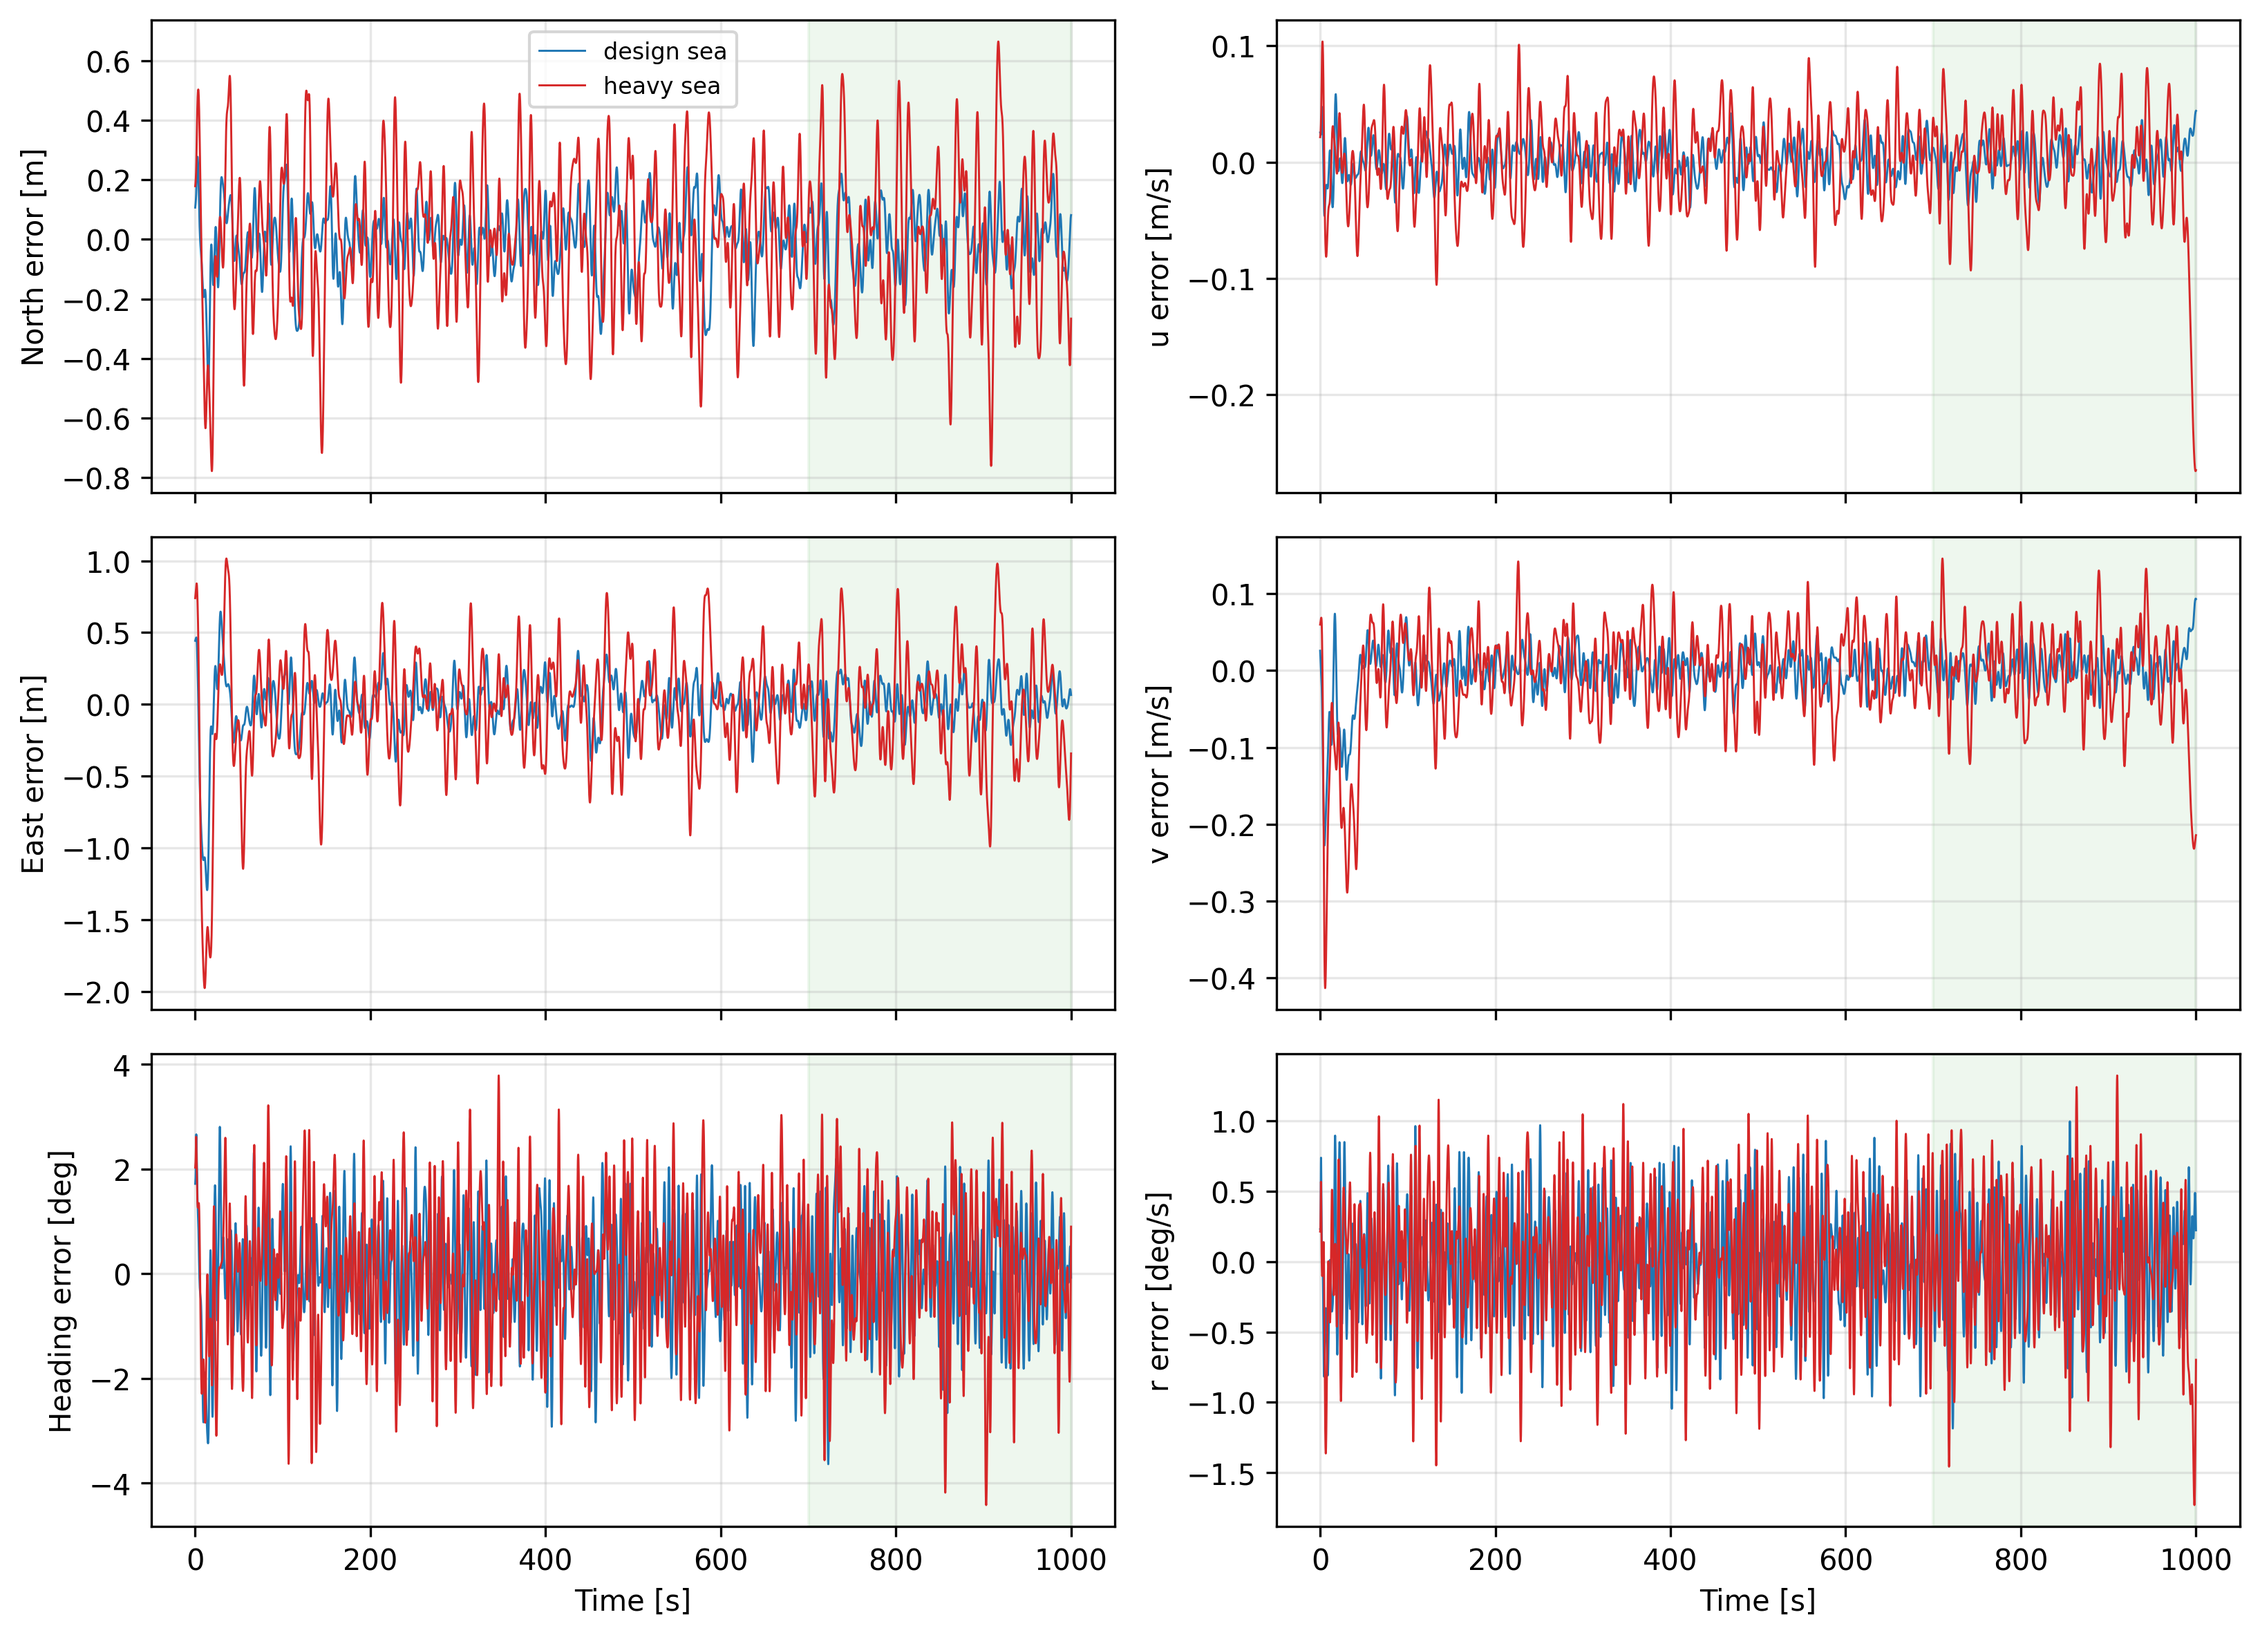
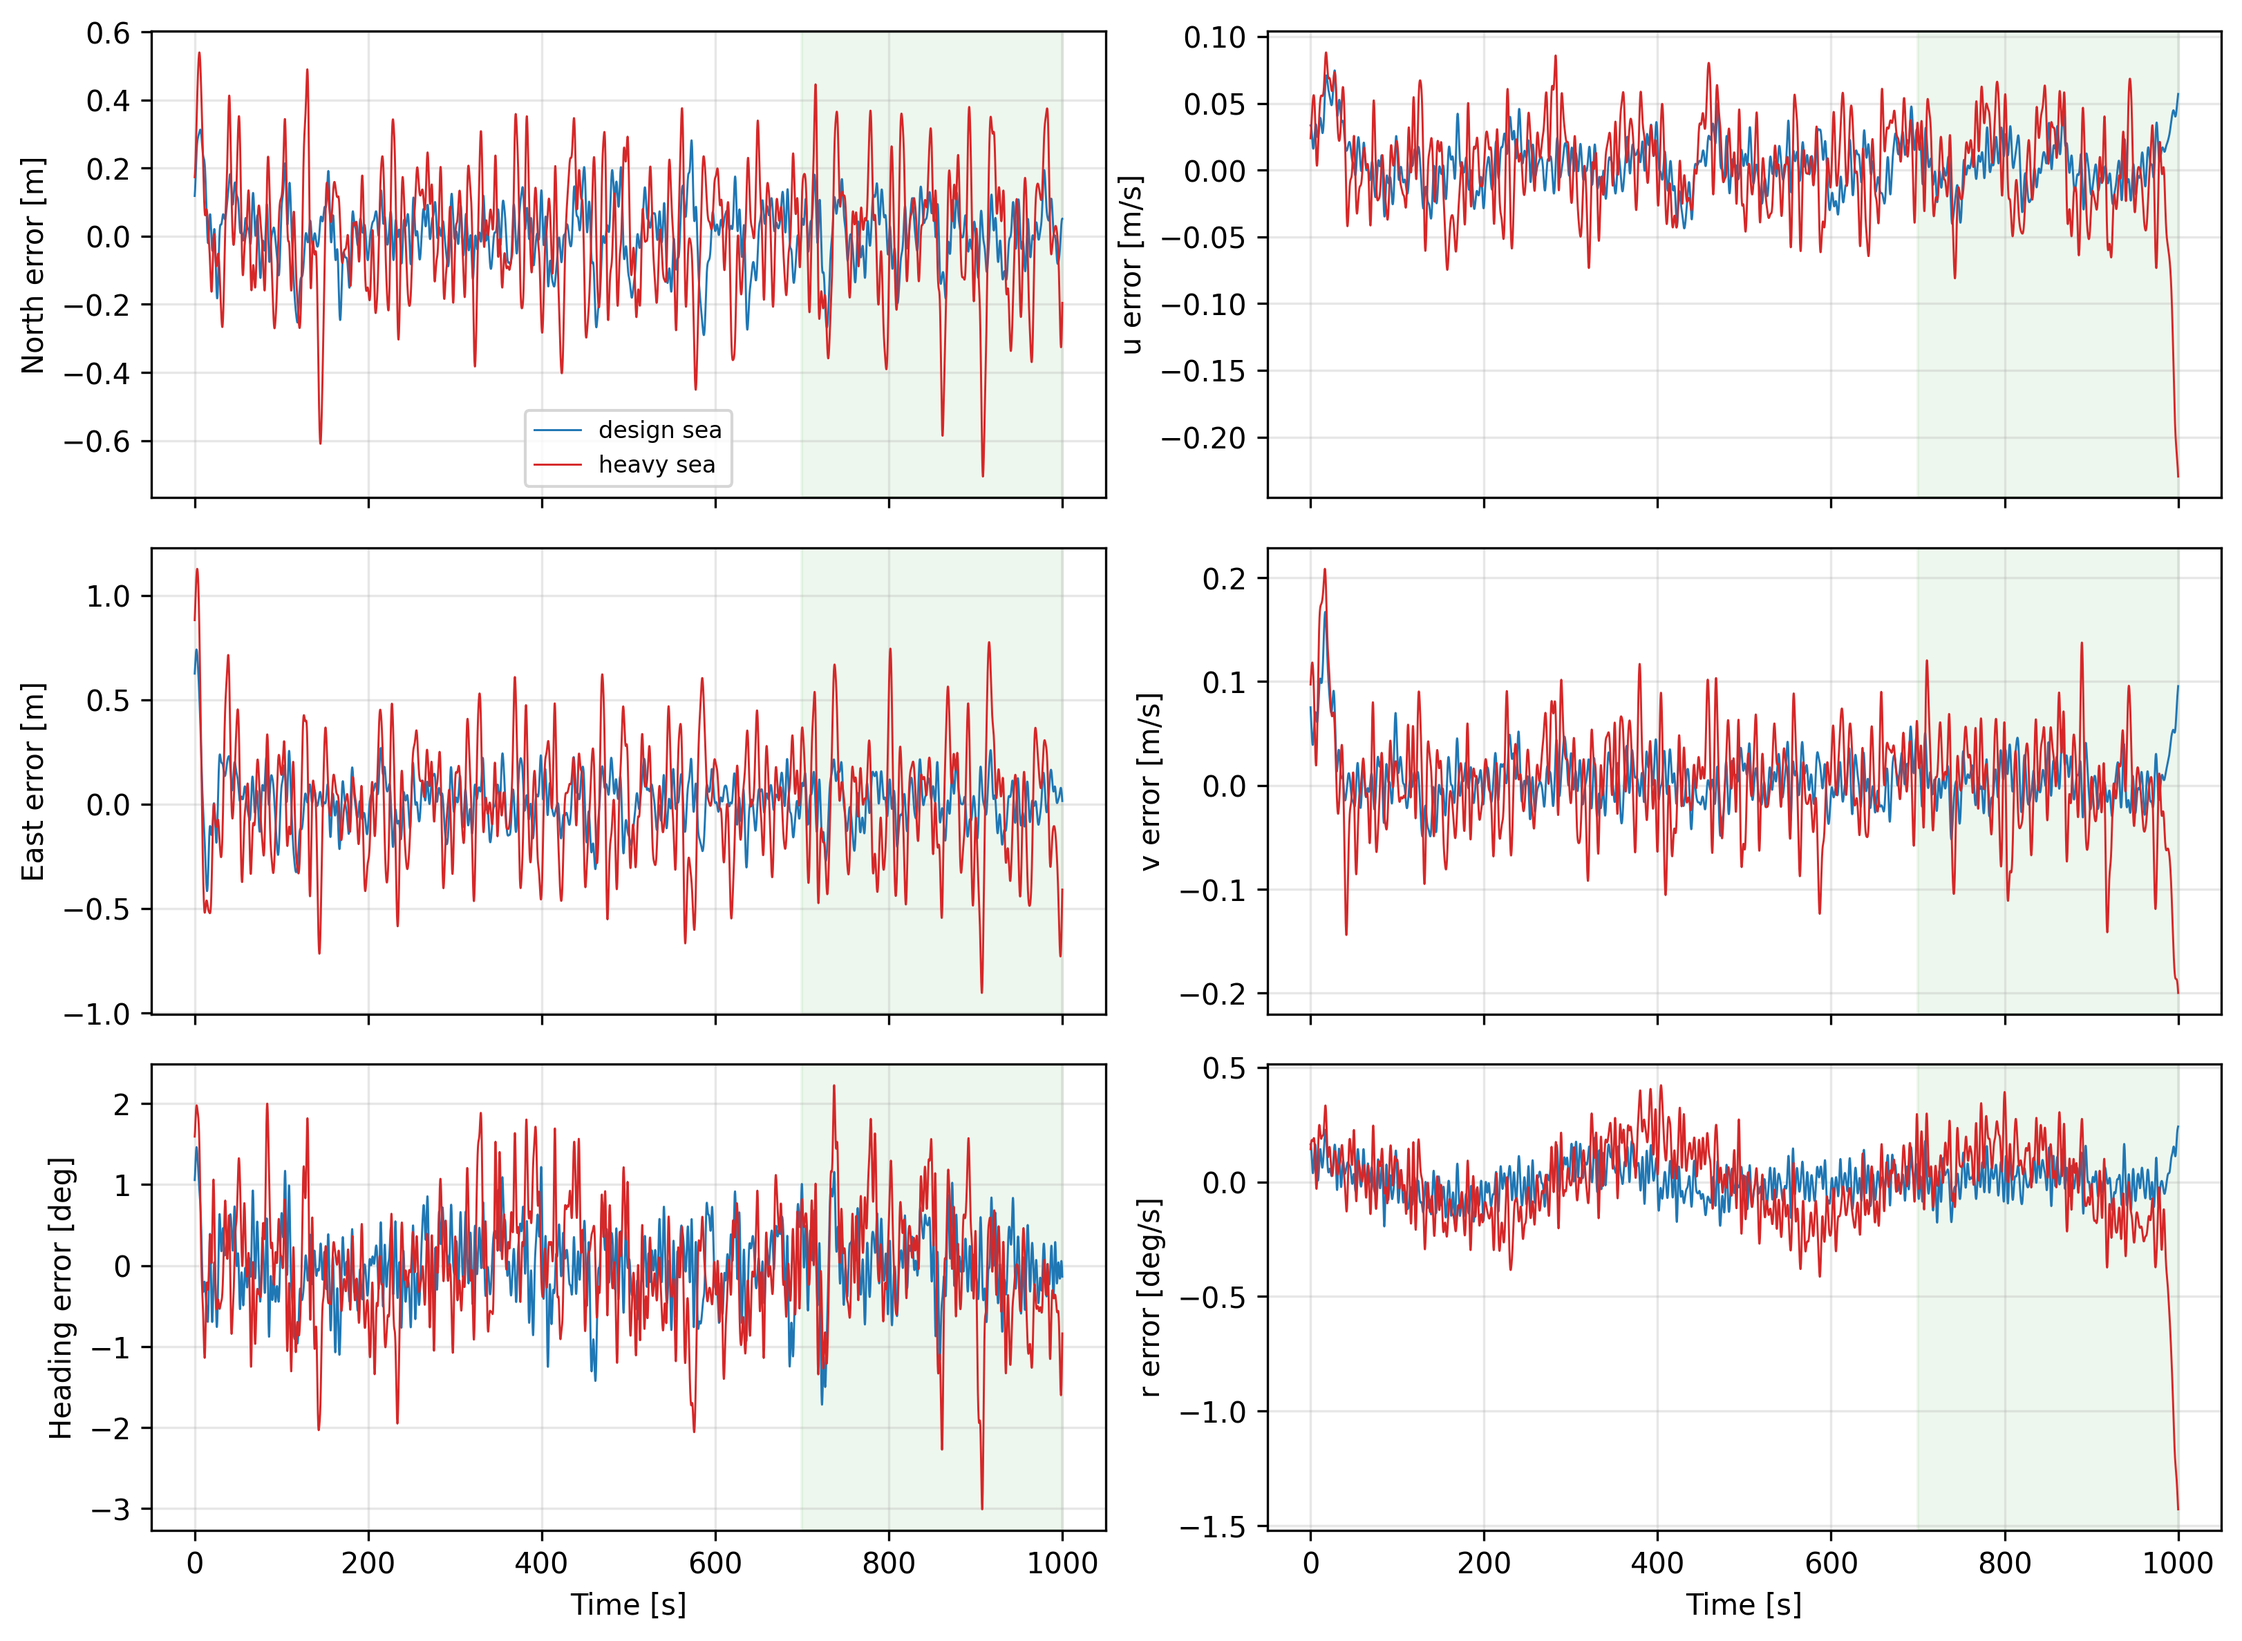
Round 2 baby! Rett observer denne gangen

diff --git a/part_2/analysis/sim7_outage.py b/part_2/analysis/sim7_outage.py
@@ -1,11 +1,12 @@
 """Simulation 7: station keeping through a loss of the position reference.
 
-Hypothesis: the Kalman observer's model (vessel dynamics + estimated bias)
-lets the DP system keep station through a GNSS/gyro outage by dead reckoning,
-so the excursion stays inside the 5 m DP watch circle for outages up to some
-tens of seconds, and then grows super-linearly because the slowly varying wind
-and gusts are not modelled.  Naively freezing the last measurement is much
-worse, because the observer then "sees" a vessel that is perfectly on target.
+Hypothesis: the nonlinear passive observer's model (vessel dynamics + estimated
+bias) lets the DP system keep station through a GNSS/gyro outage by dead
+reckoning, so the excursion stays inside the 5 m DP watch circle for outages up
+to some tens of seconds, and then grows super-linearly because the slowly
+varying wind and gusts are not modelled.  Naively freezing the last measurement
+is much worse, because the observer then "sees" a vessel that is perfectly on
+target.
 
     python -m part_2.analysis.sim7_outage
 """
@@ -19,8 +20,9 @@ import numpy as np
 import run_case_part_2 as rc
 from part_2.config import Part2SimConfig
 from part_2.analysis.sim6_robustness import moving_avg, wrap
-from part_2.observer import KalmanFilterObserver
+from part_2.observer import NonlinearPassiveObserver, ObserverEstimate
 from simulation.capability import low_frequency_motion
+from simulation.utils import Rz, to_3dof, to_6dof, wrap_angle_pi
 
 T_START = 300.0                         # outage begins after the filter has settled
 T_AFTER = 200.0                         # time kept after the outage ends
@@ -29,20 +31,18 @@ SEEDS = [123, 124, 125]
 MODES = ("dead_reckoning", "frozen")
 POS_LIMIT = rc.CAP_POS_LIMIT            # DP watch circle [m]
 PSI_LIMIT = rc.CAP_PSI_LIMIT_DEG        # [deg]
-R_OFF = 1e12                            # measurement covariance used to switch off the update
 
 
-class OutageKalman(KalmanFilterObserver):
-    """Kalman observer whose measurement is lost in [t0, t1).
+class OutageNPO(NonlinearPassiveObserver):
+    """Nonlinear passive observer whose measurement is lost in [t0, t1).
 
-    dead_reckoning: measurement update disabled (prediction only).
+    dead_reckoning: the correction terms are switched off (model prediction only).
     frozen: the last valid measurement is repeated and still trusted.
     """
 
     def __init__(self, t0, t1, mode, **kw):
         super().__init__(**kw)
         self.t0, self.t1, self.mode = t0, t1, mode
-        self._R_on = self.R.copy()
         self._held = None
 
     def step(self, t, dt, eta_measured, tau_est):
@@ -52,16 +52,28 @@ class OutageKalman(KalmanFilterObserver):
             self._held = z.copy()
         if lost and self.mode == "frozen":
             z = self._held
-        off = lost and self.mode == "dead_reckoning"
-        self.R = np.diag(np.full(3, R_OFF)) if off else self._R_on
-        return super().step(t, dt, z, tau_est)
+        if not (lost and self.mode == "dead_reckoning"):
+            return super().step(t, dt, z, tau_est)
+
+        h = float(dt)
+        tau = to_3dof(tau_est)
+        R = Rz(self.eta[2])
+        xi_dot = self.xi @ self.Aw.T
+        nu_dot = self.Minv @ (-self.D @ self.nu + R.T @ self.b + tau)
+        self.xi = self.xi + h * xi_dot
+        self.eta = self.eta + h * (R @ self.nu)
+        self.b = self.b - h * self.b / self.T_b
+        self.nu = self.nu + h * nu_dot
+        self.eta[2] = wrap_angle_pi(self.eta[2])
+        return ObserverEstimate(eta=to_6dof(self.eta), nu=to_6dof(self.nu), bias=to_6dof(self.b))
 
 
 def run_case(duration, mode, seed):
     t1 = T_START + duration
-    cfg = Part2SimConfig(dt=rc.DT, T=t1 + T_AFTER, use_observer=True, observer_type="kalman")
+    cfg = Part2SimConfig(dt=rc.DT, T=t1 + T_AFTER, use_observer=True,
+                         observer_type=rc.selected_observer())
     sim = rc.make_sim(cfg)
-    sim.observer = OutageKalman(T_START, t1, mode)
+    sim.observer = OutageNPO(T_START, t1, mode)
     sim.reset_state()
     return sim.run(np.zeros(6), **dict(zip(("current", "wind", "waves"),
                                            rc.environment(seed=seed))))
@@ -115,7 +127,7 @@ def main():
                   + f"{worst[(m, d)]:15.2f}")
 
     col = {"dead_reckoning": "C0", "frozen": "C3"}
-    lab = {"dead_reckoning": "Kalman dead reckoning", "frozen": "frozen measurement"}
+    lab = {"dead_reckoning": "NPO dead reckoning", "frozen": "frozen measurement"}
 
     # Figure 1: time series for the 120 s outage
     fig, ax = plt.subplots(2, 1, figsize=(10, 6), sharex=True)

diff --git a/part_2/analysis/sim5_capability.py b/part_2/analysis/sim5_capability.py
@@ -1,0 +1,49 @@
+"""Simulation 5: thrust-utilisation capability sweep with the selected observer.
+
+Runs the 36-direction sweep (seed 123), prints the per-direction table and the
+summary used in the report, and saves results/p2sim5_fig1.png.
+
+    python -m part_2.analysis.sim5_capability
+"""
+from __future__ import annotations
+
+import time
+
+import matplotlib
+matplotlib.use("Agg")
+import numpy as np
+
+import run_case_part_2 as rc
+from part_2.config import default_thrusters_part_2
+from simulation.capability import plot_capability
+
+
+def main():
+    t_start = time.time()
+    res = rc.sim5()
+    fig = plot_capability(res, total_limits=(rc.CAP_TOTAL_POS_LIMIT, rc.CAP_TOTAL_PSI_LIMIT_DEG))
+    fig.savefig("results/p2sim5_fig1.png", dpi=300, bbox_inches="tight")
+
+    d = res.directions_deg
+    u = res.utilization
+    pos_lf, psi_lf = res.max_pos_dev_lf, np.degrees(res.max_psi_dev_lf)
+    pos_t, psi_t = res.max_pos_dev_total, np.degrees(res.max_psi_dev_total)
+    ok_lf = (pos_lf <= rc.CAP_POS_LIMIT) & (psi_lf <= rc.CAP_PSI_LIMIT_DEG)
+    ok_t = (pos_t <= rc.CAP_TOTAL_POS_LIMIT) & (psi_t <= rc.CAP_TOTAL_PSI_LIMIT_DEG)
+    print(f"\nobserver={rc.selected_observer()} seed={rc.SEED}")
+    print("from  util   LFpos  LFpsi  Tpos  Tpsi")
+    for i in range(len(d)):
+        print(f"{d[i]:4.0f} {u[i]:5.1f} {pos_lf[i]:6.2f} {psi_lf[i]:6.2f} {pos_t[i]:5.2f} {psi_t[i]:5.2f}")
+    print(f"util min {u.min():.1f} at {d[u.argmin()]:.0f}, max {u.max():.1f} at {d[u.argmax()]:.0f}, "
+          f"mean {u.mean():.1f}")
+    print(f"within LF limits {ok_lf.sum()}/{len(d)}; within total limits {ok_t.sum()}/{len(d)}: "
+          f"{d[ok_t].astype(int).tolist()}")
+    print(f"max LF pos {pos_lf.max():.2f} at {d[pos_lf.argmax()]:.0f}; "
+          f"max LF psi {psi_lf.max():.2f} at {d[psi_lf.argmax()]:.0f}")
+    print(f"max total pos {pos_t.max():.2f} at {d[pos_t.argmax()]:.0f}; "
+          f"max total psi {psi_t.max():.2f} at {d[psi_t.argmax()]:.0f}")
+    print(f"runtime {time.time() - t_start:.0f} s")
+
+
+if __name__ == "__main__":
+    main()

diff --git a/part_2/analysis/sim6_robustness.py b/part_2/analysis/sim6_robustness.py
@@ -173,6 +173,23 @@ def main():
     fig.tight_layout()
     fig.savefig("results/p2sim6_fig3.png", dpi=300, bbox_inches="tight")
 
+    # Ideal-actuator control runs: the controller wrench is applied exactly
+    # (no allocation, limits, rate limits or azimuth dynamics), same seed/observer.
+    print("\nIDEAL ACTUATORS (bypass_actuators=True), window metrics")
+    ideal = {}
+    for k, (hs, tp) in SEAS.items():
+        cfg = Part2SimConfig(dt=rc.DT, T=T_RUN, use_observer=True, bypass_actuators=True,
+                             observer_type=rc.selected_observer())
+        ideal[k] = metrics(rc.run(cfg, np.zeros(6), rc.environment(hs=hs, tp=tp)),
+                           thrusters, t0, t1)
+    show = ("pos_tot_rms", "pos_tot_max", "psi_tot_rms", "psi_tot_max", "pos_lf_rms",
+            "pos_lf_max", "psi_lf_rms", "psi_lf_max", "est_N_lf_rms", "est_E_lf_rms",
+            "est_psi_lf_rms", "est_psi_lf_max")
+    print(f"{'metric':24s}{'design':>12s}{'heavy':>12s}   (real actuators: design, heavy)")
+    for key in show:
+        print(f"{key:24s}{ideal['design'][key]:12.3f}{ideal['heavy'][key]:12.3f}   "
+              f"{results[('design', 'window')][key]:10.3f}{results[('heavy', 'window')][key]:10.3f}")
+
 
 if __name__ == "__main__":
     main()

diff --git a/run_case_part_2.py b/run_case_part_2.py
@@ -71,7 +71,7 @@ SEED = 123
 # there first, then set this to "nonlinear_passive" or "kalman" and justify
 # the choice in the report.  It is None until you choose: every preset that
 # needs it stops with a message instead of picking one for you.
-SELECTED_OBSERVER = "kalman"
+SELECTED_OBSERVER = "nonlinear_passive"
 
 # Initial observer error used by the convergence demonstration in Part 2,
 # Simulation 4.  The engine resets every observer at the TRUE initial pose, so
